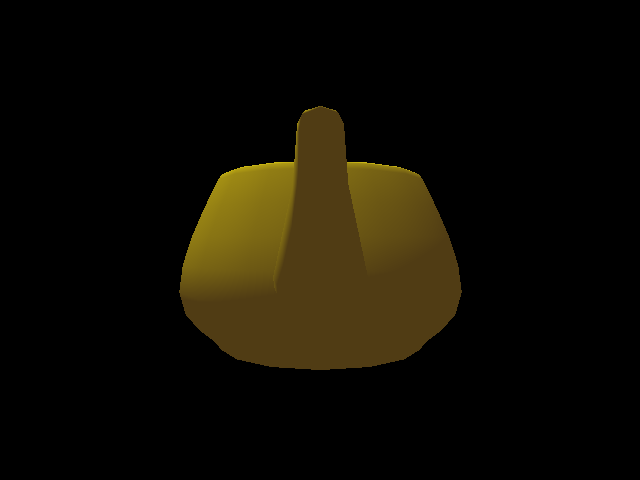
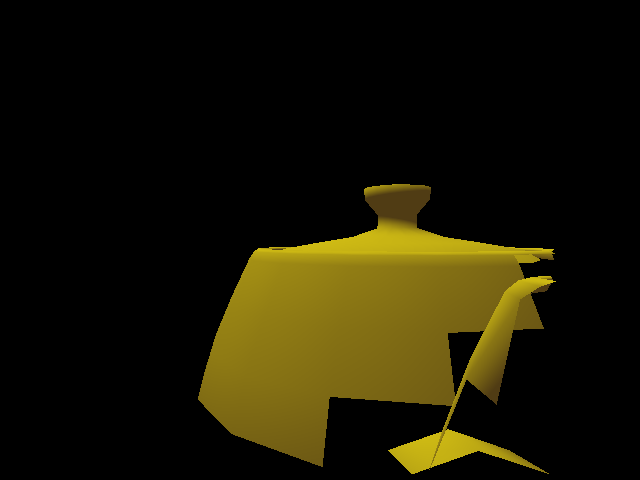
wrong agressive culling until i figure out clipping

Changed region(s): [[0.2812, 0.2188, 0.875, 1.0]]

diff --git a/msvc/test/main.cpp b/msvc/test/main.cpp
@@ -81,7 +81,7 @@ void rotateCube(sf::RenderWindow &window)
 	Quat rot = Quat::from_axis_angle(Vec(0, 0, 1), 0.005);
 
 	Camera cam;
-	cam.position = Vec(30, 0, 0);
+	cam.position = Vec(30, 0, 5);
 	cam.direction = Vec(-1, 0, 0);
 	cam.up = Vec(0, 0, 1);
 
@@ -130,6 +130,14 @@ void rotateCube(sf::RenderWindow &window)
         {
             if (event.type == sf::Event::Closed)
                 window.close();
+
+			if (event.type == sf::Event::KeyPressed)
+			{
+				if (event.key.code == sf::Keyboard::P)
+				{
+					screen.copyToImage().saveToFile("../../molasses.png");
+				}
+			}
         }
 
 		zbuffer.fill(std::numeric_limits<float>::max());
@@ -178,19 +186,12 @@ void rotateCube(sf::RenderWindow &window)
 
 		screen.update((sf::Uint8 const *)fragments.raw(), width, height, 0, 0);
 
-		if (counter == 230)
-		{
-			screen.copyToImage().saveToFile("../../molasses.png");
-		}
-
 		window.clear();
         window.draw(sprite);
+        window.display();
 
 		double fps = ((double) counter) / clock.getElapsedTime().asSeconds();
 		std::cout << fps << " FPS" << std::endl;
-
-        window.display();
-
 		++counter;
 	}
 }

diff --git a/rasterize.h b/rasterize.h
@@ -57,13 +57,15 @@ void rasterize(
 		toScreen * (c.vertex / c.vertex.w),
 	};
 	
-	// bounding box clipping
-	Bounds triBounds = Bounds::fromIterators(vtxProj, vtxProj + 3);
+	// incorrecat, overly agressive bounding box culling
+	// until i get real clipping
 	Bounds viewCube;
-	viewCube.merge(Vec(-1, -1, 0));
+	viewCube.merge(Vec(-1, -1, -1));
 	viewCube.merge(Vec(1, 1, 1));
 
-	if (!viewCube.intersects(triBounds))
+	if (!viewCube.contains(vtxProj[0]) ||
+	    !viewCube.contains(vtxProj[1]) ||
+		!viewCube.contains(vtxProj[2]))
 	{
 		return;
 	}
